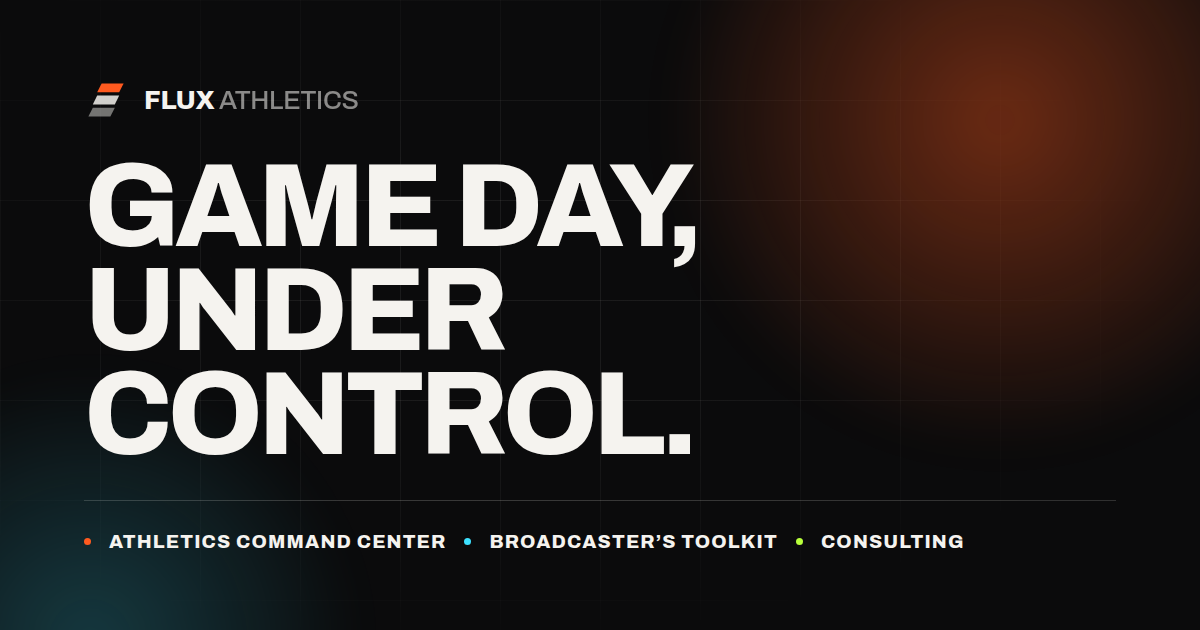
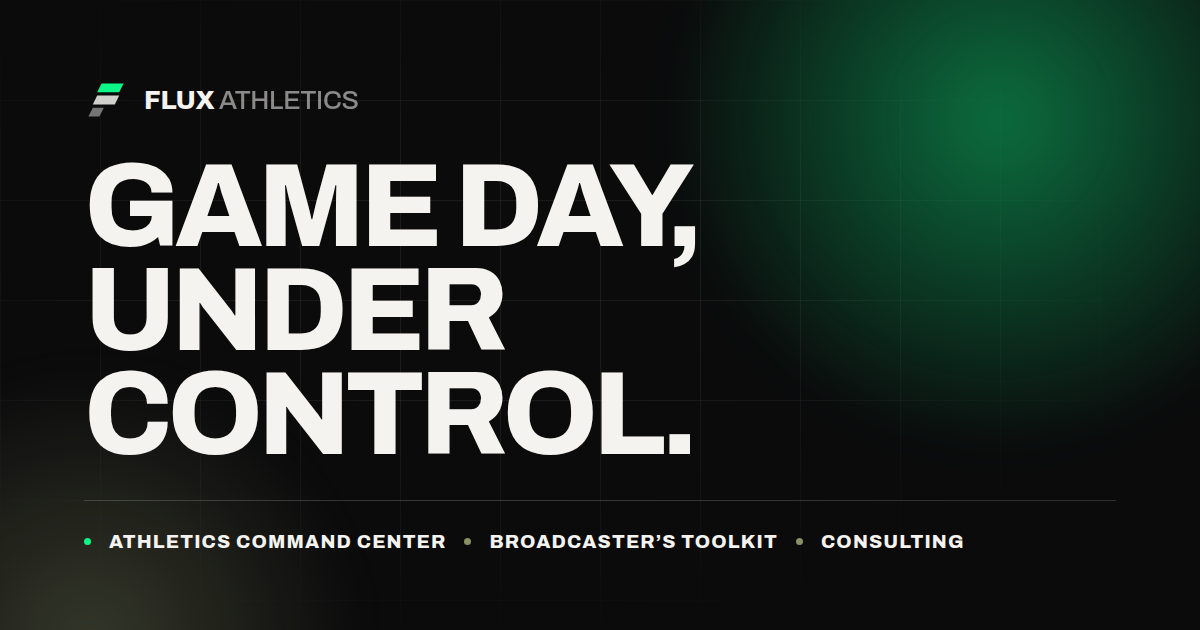
Halve the bottom bar of the mark so it reads as an F
The third bar now runs half the length of the two above it, anchored on the
same left edge, so the stack reads as an italic F: two full arms and a short
stem tail. Geometry only — colours, angle, spacing and the top two bars are
untouched.

Applied everywhere the mark is drawn: the header and footer lockup, the CTA
band watermark, the favicon, the admin toolbar and the social share card.

Also fixes the share card, which had been missed in the colour change and was
still rendering the old orange palette — so the image shared to social did not
match the site. tools/og-card.html now takes its colours from content.json at
render time rather than hardcoding them, so it cannot drift again.

Checked at 14, 18 and 24px as well as full size: the shorter bar still reads
clearly at favicon scale.

Claude-Session: https://claude.ai/code/session_01XYmN6qefi4AsdEMxrrB8DU

Changed region(s): [[0.6167, 0.0, 1.0, 0.6032], [0.0308, 0.9048, 0.1233, 1.0], [0.0617, 0.1206, 0.1233, 0.1508]]

diff --git a/tools/og-card.html b/tools/og-card.html
@@ -3,7 +3,8 @@
 <link rel="stylesheet" href="../assets/css/fonts.css">
 <style>
   * { margin:0; box-sizing:border-box; }
-  body { width:1200px; height:630px; background:#0B0B0C; color:#F5F3EF; overflow:hidden;
+  :root { --primary:#0DF786; --support:#889165; --ink:#0B0B0C; --paper:#F5F3EF; }
+  body { width:1200px; height:630px; background:var(--ink); color:var(--paper); overflow:hidden;
          font-family:'Inter',sans-serif; position:relative; }
   .grid { position:absolute; inset:0;
           background-image:linear-gradient(rgba(245,243,239,.07) 1px,transparent 1px),
@@ -11,9 +12,9 @@
           background-size:100px 100px;
           -webkit-mask-image:radial-gradient(ellipse 80% 80% at 40% 45%,#000 25%,transparent 75%); }
   .glow { position:absolute; width:760px; height:760px; right:-180px; top:-260px; border-radius:50%;
-          background:radial-gradient(circle,rgba(255,90,31,.40),transparent 62%); filter:blur(20px); }
+          background:radial-gradient(circle,color-mix(in srgb, var(--primary) 42%, transparent),transparent 62%); filter:blur(20px); }
   .glow2 { position:absolute; width:620px; height:620px; left:-220px; bottom:-320px; border-radius:50%;
-           background:radial-gradient(circle,rgba(61,225,255,.22),transparent 62%); filter:blur(20px); }
+           background:radial-gradient(circle,color-mix(in srgb, var(--support) 34%, transparent),transparent 62%); filter:blur(20px); }
   .in { position:relative; height:100%; padding:78px 84px; display:flex; flex-direction:column; justify-content:space-between; }
   .brand { display:flex; align-items:center; gap:16px; }
   .brand svg { width:44px; height:44px; }
@@ -24,14 +25,14 @@
   .foot { display:flex; align-items:center; gap:18px; flex-wrap:wrap;
           border-top:1px solid rgba(245,243,239,.16); padding-top:30px; }
   .tag { font-family:'Archivo'; font-weight:800; font-size:19px; letter-spacing:.06em; text-transform:uppercase; }
-  .dot { width:7px; height:7px; border-radius:50%; background:#FF5A1F; }
-  .dot.v { background:#3DE1FF; } .dot.f { background:#B8FF3C; }
+  .dot { width:7px; height:7px; border-radius:50%; background:var(--primary); }
+  .dot.v, .dot.f { background:var(--support); }
 </style>
 <body>
   <div class="grid"></div><div class="glow"></div><div class="glow2"></div>
   <div class="in">
     <div class="brand">
-      <svg viewBox="0 0 40 40"><path d="M16 5h20l-4 8H12z" fill="#FF5A1F"/><path d="M12 16h20l-4 8H8z" fill="#F5F3EF" opacity=".85"/><path d="M8 27h20l-4 8H4z" fill="#F5F3EF" opacity=".45"/></svg>
+      <svg viewBox="0 0 40 40"><path d="M16 5h20l-4 8H12z" fill="var(--primary)"/><path d="M12 16h20l-4 8H8z" fill="var(--paper)" opacity=".85"/><path d="M8 27h10l-4 8H4z" fill="var(--paper)" opacity=".45"/></svg>
       <b>Flux <span>Athletics</span></b>
     </div>
     <h1>Game day,<br>under control.</h1>

diff --git a/consulting.html b/consulting.html
@@ -32,7 +32,7 @@
 <header class="header">
   <div class="header__inner">
     <a class="brand" href="index.html" aria-label="Flux Athletics — home">
-      <svg class="brand__mark" viewBox="0 0 40 40" aria-hidden="true" focusable="false"><path class="b1" d="M16 5h20l-4 8H12z"/><path class="b2" d="M12 16h20l-4 8H8z"/><path class="b3" d="M8 27h20l-4 8H4z"/></svg>
+      <svg class="brand__mark" viewBox="0 0 40 40" aria-hidden="true" focusable="false"><path class="b1" d="M16 5h20l-4 8H12z"/><path class="b2" d="M12 16h20l-4 8H8z"/><path class="b3" d="M8 27h10l-4 8H4z"/></svg>
       <span class="brand__word">Flux <span>Athletics</span></span>
     </a>
 
@@ -197,7 +197,7 @@
 </section>
 
 <section class="cta-band">
-  <svg class="cta-band__mark" viewBox="0 0 40 40" aria-hidden="true" focusable="false"><path class="b1" d="M16 5h20l-4 8H12z"/><path class="b2" d="M12 16h20l-4 8H8z"/><path class="b3" d="M8 27h20l-4 8H4z"/></svg>
+  <svg class="cta-band__mark" viewBox="0 0 40 40" aria-hidden="true" focusable="false"><path class="b1" d="M16 5h20l-4 8H12z"/><path class="b2" d="M12 16h20l-4 8H8z"/><path class="b3" d="M8 27h10l-4 8H4z"/></svg>
   <div class="shell cta-band__inner">
     <div data-reveal>
       <h2>Bring us the problem you keep postponing.</h2>
@@ -215,7 +215,7 @@
     <div class="footer__top">
       <div>
         <a class="brand" href="index.html" aria-label="Flux Athletics — home">
-      <svg class="brand__mark" viewBox="0 0 40 40" aria-hidden="true" focusable="false"><path class="b1" d="M16 5h20l-4 8H12z"/><path class="b2" d="M12 16h20l-4 8H8z"/><path class="b3" d="M8 27h20l-4 8H4z"/></svg>
+      <svg class="brand__mark" viewBox="0 0 40 40" aria-hidden="true" focusable="false"><path class="b1" d="M16 5h20l-4 8H12z"/><path class="b2" d="M12 16h20l-4 8H8z"/><path class="b3" d="M8 27h10l-4 8H4z"/></svg>
       <span class="brand__word">Flux <span>Athletics</span></span>
     </a>
         <p class="footer__word" style="margin-top:1.5rem">Software, signal &amp; strategy for sports.</p>

diff --git a/index.html b/index.html
@@ -32,7 +32,7 @@
 <header class="header">
   <div class="header__inner">
     <a class="brand" href="index.html" aria-label="Flux Athletics — home">
-      <svg class="brand__mark" viewBox="0 0 40 40" aria-hidden="true" focusable="false"><path class="b1" d="M16 5h20l-4 8H12z"/><path class="b2" d="M12 16h20l-4 8H8z"/><path class="b3" d="M8 27h20l-4 8H4z"/></svg>
+      <svg class="brand__mark" viewBox="0 0 40 40" aria-hidden="true" focusable="false"><path class="b1" d="M16 5h20l-4 8H12z"/><path class="b2" d="M12 16h20l-4 8H8z"/><path class="b3" d="M8 27h10l-4 8H4z"/></svg>
       <span class="brand__word">Flux <span>Athletics</span></span>
     </a>
 
@@ -314,7 +314,7 @@
 </section>
 
 <section class="cta-band">
-  <svg class="cta-band__mark" viewBox="0 0 40 40" aria-hidden="true" focusable="false"><path class="b1" d="M16 5h20l-4 8H12z"/><path class="b2" d="M12 16h20l-4 8H8z"/><path class="b3" d="M8 27h20l-4 8H4z"/></svg>
+  <svg class="cta-band__mark" viewBox="0 0 40 40" aria-hidden="true" focusable="false"><path class="b1" d="M16 5h20l-4 8H12z"/><path class="b2" d="M12 16h20l-4 8H8z"/><path class="b3" d="M8 27h10l-4 8H4z"/></svg>
   <div class="shell cta-band__inner">
     <div data-reveal>
       <h2>Let’s get your season under control.</h2>
@@ -332,7 +332,7 @@
     <div class="footer__top">
       <div>
         <a class="brand" href="index.html" aria-label="Flux Athletics — home">
-      <svg class="brand__mark" viewBox="0 0 40 40" aria-hidden="true" focusable="false"><path class="b1" d="M16 5h20l-4 8H12z"/><path class="b2" d="M12 16h20l-4 8H8z"/><path class="b3" d="M8 27h20l-4 8H4z"/></svg>
+      <svg class="brand__mark" viewBox="0 0 40 40" aria-hidden="true" focusable="false"><path class="b1" d="M16 5h20l-4 8H12z"/><path class="b2" d="M12 16h20l-4 8H8z"/><path class="b3" d="M8 27h10l-4 8H4z"/></svg>
       <span class="brand__word">Flux <span>Athletics</span></span>
     </a>
         <p class="footer__word" style="margin-top:1.5rem">Software, signal &amp; strategy for sports.</p>

diff --git a/about.html b/about.html
@@ -32,7 +32,7 @@
 <header class="header">
   <div class="header__inner">
     <a class="brand" href="index.html" aria-label="Flux Athletics — home">
-      <svg class="brand__mark" viewBox="0 0 40 40" aria-hidden="true" focusable="false"><path class="b1" d="M16 5h20l-4 8H12z"/><path class="b2" d="M12 16h20l-4 8H8z"/><path class="b3" d="M8 27h20l-4 8H4z"/></svg>
+      <svg class="brand__mark" viewBox="0 0 40 40" aria-hidden="true" focusable="false"><path class="b1" d="M16 5h20l-4 8H12z"/><path class="b2" d="M12 16h20l-4 8H8z"/><path class="b3" d="M8 27h10l-4 8H4z"/></svg>
       <span class="brand__word">Flux <span>Athletics</span></span>
     </a>
 
@@ -154,7 +154,7 @@
 </section>
 
 <section class="cta-band">
-  <svg class="cta-band__mark" viewBox="0 0 40 40" aria-hidden="true" focusable="false"><path class="b1" d="M16 5h20l-4 8H12z"/><path class="b2" d="M12 16h20l-4 8H8z"/><path class="b3" d="M8 27h20l-4 8H4z"/></svg>
+  <svg class="cta-band__mark" viewBox="0 0 40 40" aria-hidden="true" focusable="false"><path class="b1" d="M16 5h20l-4 8H12z"/><path class="b2" d="M12 16h20l-4 8H8z"/><path class="b3" d="M8 27h10l-4 8H4z"/></svg>
   <div class="shell cta-band__inner">
     <div data-reveal>
       <h2>Tell us what your gamedays look like</h2>
@@ -172,7 +172,7 @@
     <div class="footer__top">
       <div>
         <a class="brand" href="index.html" aria-label="Flux Athletics — home">
-      <svg class="brand__mark" viewBox="0 0 40 40" aria-hidden="true" focusable="false"><path class="b1" d="M16 5h20l-4 8H12z"/><path class="b2" d="M12 16h20l-4 8H8z"/><path class="b3" d="M8 27h20l-4 8H4z"/></svg>
+      <svg class="brand__mark" viewBox="0 0 40 40" aria-hidden="true" focusable="false"><path class="b1" d="M16 5h20l-4 8H12z"/><path class="b2" d="M12 16h20l-4 8H8z"/><path class="b3" d="M8 27h10l-4 8H4z"/></svg>
       <span class="brand__word">Flux <span>Athletics</span></span>
     </a>
         <p class="footer__word" style="margin-top:1.5rem">Software, signal &amp; strategy for sports.</p>

diff --git a/broadcasters-toolkit.html b/broadcasters-toolkit.html
@@ -32,7 +32,7 @@
 <header class="header">
   <div class="header__inner">
     <a class="brand" href="index.html" aria-label="Flux Athletics — home">
-      <svg class="brand__mark" viewBox="0 0 40 40" aria-hidden="true" focusable="false"><path class="b1" d="M16 5h20l-4 8H12z"/><path class="b2" d="M12 16h20l-4 8H8z"/><path class="b3" d="M8 27h20l-4 8H4z"/></svg>
+      <svg class="brand__mark" viewBox="0 0 40 40" aria-hidden="true" focusable="false"><path class="b1" d="M16 5h20l-4 8H12z"/><path class="b2" d="M12 16h20l-4 8H8z"/><path class="b3" d="M8 27h10l-4 8H4z"/></svg>
       <span class="brand__word">Flux <span>Athletics</span></span>
     </a>
 
@@ -247,7 +247,7 @@
 </section>
 
 <section class="cta-band">
-  <svg class="cta-band__mark" viewBox="0 0 40 40" aria-hidden="true" focusable="false"><path class="b1" d="M16 5h20l-4 8H12z"/><path class="b2" d="M12 16h20l-4 8H8z"/><path class="b3" d="M8 27h20l-4 8H4z"/></svg>
+  <svg class="cta-band__mark" viewBox="0 0 40 40" aria-hidden="true" focusable="false"><path class="b1" d="M16 5h20l-4 8H12z"/><path class="b2" d="M12 16h20l-4 8H8z"/><path class="b3" d="M8 27h10l-4 8H4z"/></svg>
   <div class="shell cta-band__inner">
     <div data-reveal>
       <h2>Tell us what your show looks like.</h2>
@@ -265,7 +265,7 @@
     <div class="footer__top">
       <div>
         <a class="brand" href="index.html" aria-label="Flux Athletics — home">
-      <svg class="brand__mark" viewBox="0 0 40 40" aria-hidden="true" focusable="false"><path class="b1" d="M16 5h20l-4 8H12z"/><path class="b2" d="M12 16h20l-4 8H8z"/><path class="b3" d="M8 27h20l-4 8H4z"/></svg>
+      <svg class="brand__mark" viewBox="0 0 40 40" aria-hidden="true" focusable="false"><path class="b1" d="M16 5h20l-4 8H12z"/><path class="b2" d="M12 16h20l-4 8H8z"/><path class="b3" d="M8 27h10l-4 8H4z"/></svg>
       <span class="brand__word">Flux <span>Athletics</span></span>
     </a>
         <p class="footer__word" style="margin-top:1.5rem">Software, signal &amp; strategy for sports.</p>

diff --git a/command-center.html b/command-center.html
@@ -32,7 +32,7 @@
 <header class="header">
   <div class="header__inner">
     <a class="brand" href="index.html" aria-label="Flux Athletics — home">
-      <svg class="brand__mark" viewBox="0 0 40 40" aria-hidden="true" focusable="false"><path class="b1" d="M16 5h20l-4 8H12z"/><path class="b2" d="M12 16h20l-4 8H8z"/><path class="b3" d="M8 27h20l-4 8H4z"/></svg>
+      <svg class="brand__mark" viewBox="0 0 40 40" aria-hidden="true" focusable="false"><path class="b1" d="M16 5h20l-4 8H12z"/><path class="b2" d="M12 16h20l-4 8H8z"/><path class="b3" d="M8 27h10l-4 8H4z"/></svg>
       <span class="brand__word">Flux <span>Athletics</span></span>
     </a>
 
@@ -278,7 +278,7 @@
 </section>
 
 <section class="cta-band">
-  <svg class="cta-band__mark" viewBox="0 0 40 40" aria-hidden="true" focusable="false"><path class="b1" d="M16 5h20l-4 8H12z"/><path class="b2" d="M12 16h20l-4 8H8z"/><path class="b3" d="M8 27h20l-4 8H4z"/></svg>
+  <svg class="cta-band__mark" viewBox="0 0 40 40" aria-hidden="true" focusable="false"><path class="b1" d="M16 5h20l-4 8H12z"/><path class="b2" d="M12 16h20l-4 8H8z"/><path class="b3" d="M8 27h10l-4 8H4z"/></svg>
   <div class="shell cta-band__inner">
     <div data-reveal>
       <h2>See it against your own season.</h2>
@@ -296,7 +296,7 @@
     <div class="footer__top">
       <div>
         <a class="brand" href="index.html" aria-label="Flux Athletics — home">
-      <svg class="brand__mark" viewBox="0 0 40 40" aria-hidden="true" focusable="false"><path class="b1" d="M16 5h20l-4 8H12z"/><path class="b2" d="M12 16h20l-4 8H8z"/><path class="b3" d="M8 27h20l-4 8H4z"/></svg>
+      <svg class="brand__mark" viewBox="0 0 40 40" aria-hidden="true" focusable="false"><path class="b1" d="M16 5h20l-4 8H12z"/><path class="b2" d="M12 16h20l-4 8H8z"/><path class="b3" d="M8 27h10l-4 8H4z"/></svg>
       <span class="brand__word">Flux <span>Athletics</span></span>
     </a>
         <p class="footer__word" style="margin-top:1.5rem">Software, signal &amp; strategy for sports.</p>

diff --git a/contact.html b/contact.html
@@ -32,7 +32,7 @@
 <header class="header">
   <div class="header__inner">
     <a class="brand" href="index.html" aria-label="Flux Athletics — home">
-      <svg class="brand__mark" viewBox="0 0 40 40" aria-hidden="true" focusable="false"><path class="b1" d="M16 5h20l-4 8H12z"/><path class="b2" d="M12 16h20l-4 8H8z"/><path class="b3" d="M8 27h20l-4 8H4z"/></svg>
+      <svg class="brand__mark" viewBox="0 0 40 40" aria-hidden="true" focusable="false"><path class="b1" d="M16 5h20l-4 8H12z"/><path class="b2" d="M12 16h20l-4 8H8z"/><path class="b3" d="M8 27h10l-4 8H4z"/></svg>
       <span class="brand__word">Flux <span>Athletics</span></span>
     </a>
 
@@ -156,7 +156,7 @@
     <div class="footer__top">
       <div>
         <a class="brand" href="index.html" aria-label="Flux Athletics — home">
-      <svg class="brand__mark" viewBox="0 0 40 40" aria-hidden="true" focusable="false"><path class="b1" d="M16 5h20l-4 8H12z"/><path class="b2" d="M12 16h20l-4 8H8z"/><path class="b3" d="M8 27h20l-4 8H4z"/></svg>
+      <svg class="brand__mark" viewBox="0 0 40 40" aria-hidden="true" focusable="false"><path class="b1" d="M16 5h20l-4 8H12z"/><path class="b2" d="M12 16h20l-4 8H8z"/><path class="b3" d="M8 27h10l-4 8H4z"/></svg>
       <span class="brand__word">Flux <span>Athletics</span></span>
     </a>
         <p class="footer__word" style="margin-top:1.5rem">Software, signal &amp; strategy for sports.</p>

diff --git a/404.html b/404.html
@@ -32,7 +32,7 @@
 <header class="header">
   <div class="header__inner">
     <a class="brand" href="index.html" aria-label="Flux Athletics — home">
-      <svg class="brand__mark" viewBox="0 0 40 40" aria-hidden="true" focusable="false"><path class="b1" d="M16 5h20l-4 8H12z"/><path class="b2" d="M12 16h20l-4 8H8z"/><path class="b3" d="M8 27h20l-4 8H4z"/></svg>
+      <svg class="brand__mark" viewBox="0 0 40 40" aria-hidden="true" focusable="false"><path class="b1" d="M16 5h20l-4 8H12z"/><path class="b2" d="M12 16h20l-4 8H8z"/><path class="b3" d="M8 27h10l-4 8H4z"/></svg>
       <span class="brand__word">Flux <span>Athletics</span></span>
     </a>
 
@@ -86,7 +86,7 @@
     <div class="footer__top">
       <div>
         <a class="brand" href="index.html" aria-label="Flux Athletics — home">
-      <svg class="brand__mark" viewBox="0 0 40 40" aria-hidden="true" focusable="false"><path class="b1" d="M16 5h20l-4 8H12z"/><path class="b2" d="M12 16h20l-4 8H8z"/><path class="b3" d="M8 27h20l-4 8H4z"/></svg>
+      <svg class="brand__mark" viewBox="0 0 40 40" aria-hidden="true" focusable="false"><path class="b1" d="M16 5h20l-4 8H12z"/><path class="b2" d="M12 16h20l-4 8H8z"/><path class="b3" d="M8 27h10l-4 8H4z"/></svg>
       <span class="brand__word">Flux <span>Athletics</span></span>
     </a>
         <p class="footer__word" style="margin-top:1.5rem">Software, signal &amp; strategy for sports.</p>

diff --git a/tools/templates.js b/tools/templates.js
@@ -19,7 +19,7 @@
 
   const ARROW = '<svg class="arrow" width="14" height="14" viewBox="0 0 14 14" fill="none" aria-hidden="true"><path d="M1 7h11M8 3l4 4-4 4" stroke="currentColor" stroke-width="1.8" stroke-linecap="round" stroke-linejoin="round"/></svg>';
 
-  const MARK = (cls) => `<svg class="${cls || 'brand__mark'}" viewBox="0 0 40 40" aria-hidden="true" focusable="false"><path class="b1" d="M16 5h20l-4 8H12z"/><path class="b2" d="M12 16h20l-4 8H8z"/><path class="b3" d="M8 27h20l-4 8H4z"/></svg>`;
+  const MARK = (cls) => `<svg class="${cls || 'brand__mark'}" viewBox="0 0 40 40" aria-hidden="true" focusable="false"><path class="b1" d="M16 5h20l-4 8H12z"/><path class="b2" d="M12 16h20l-4 8H8z"/><path class="b3" d="M8 27h10l-4 8H4z"/></svg>`;
 
   const btn = (b, extra) => {
     const style = (b && b.style) || 'primary';
@@ -729,7 +729,7 @@ ${pageHero(p.hero, 'primary')}
   <rect width="40" height="40" rx="9" fill="${attr(b.ink || '#0B0B0C')}"/>
   <path d="M16 8h17l-3.4 6.8H12.6z" fill="${attr(b.primary || '#0DF786')}"/>
   <path d="M12.6 17.4h17l-3.4 6.8H9.2z" fill="${attr(b.paper || '#F5F3EF')}" opacity=".85"/>
-  <path d="M9.2 26.8h17l-3.4 6.8H5.8z" fill="${attr(b.paper || '#F5F3EF')}" opacity=".45"/>
+  <path d="M9.2 26.8h8.5l-3.4 6.8H5.8z" fill="${attr(b.paper || '#F5F3EF')}" opacity=".45"/>
 </svg>
 `;
   }

diff --git a/tools/og.js b/tools/og.js
@@ -7,6 +7,20 @@ const path = require('path');
   const browser = await chromium.launch({ executablePath: process.env.CHROME_BIN || '/opt/pw-browsers/chromium-1194/chrome-linux/chrome' });
   const page = await browser.newPage({ viewport: { width: 1200, height: 630 }, deviceScaleFactor: 1 });
   await page.goto('file://' + path.join(__dirname, 'og-card.html'));
+
+  /* Pull the brand colours from content.json so the share card can never drift
+     out of sync with the site the way it did after the first colour change. */
+  const brand = JSON.parse(
+    require('fs').readFileSync(path.join(__dirname, '..', 'content.json'), 'utf8')
+  ).brand || {};
+  await page.evaluate((b) => {
+    const r = document.documentElement.style;
+    if (b.primary) r.setProperty('--primary', b.primary);
+    if (b.support) r.setProperty('--support', b.support);
+    if (b.ink) r.setProperty('--ink', b.ink);
+    if (b.paper) r.setProperty('--paper', b.paper);
+  }, brand);
+
   await page.waitForTimeout(1200); // let webfonts settle
   await page.screenshot({ path: path.join(__dirname, '..', 'assets', 'img', 'og.png') });
   await browser.close();

diff --git a/admin.html b/admin.html
@@ -14,7 +14,7 @@
 
 <header class="bar">
   <span class="bar__brand">
-    <svg viewBox="0 0 40 40" aria-hidden="true"><path d="M16 5h20l-4 8H12z" fill="#0DF786"/><path d="M12 16h20l-4 8H8z" fill="#F5F3EF" opacity=".85"/><path d="M8 27h20l-4 8H4z" fill="#F5F3EF" opacity=".45"/></svg>
+    <svg viewBox="0 0 40 40" aria-hidden="true"><path d="M16 5h20l-4 8H12z" fill="#0DF786"/><path d="M12 16h20l-4 8H8z" fill="#F5F3EF" opacity=".85"/><path d="M8 27h10l-4 8H4z" fill="#F5F3EF" opacity=".45"/></svg>
     Site admin
   </span>
   <span class="bar__tag">Flux Athletics</span>
